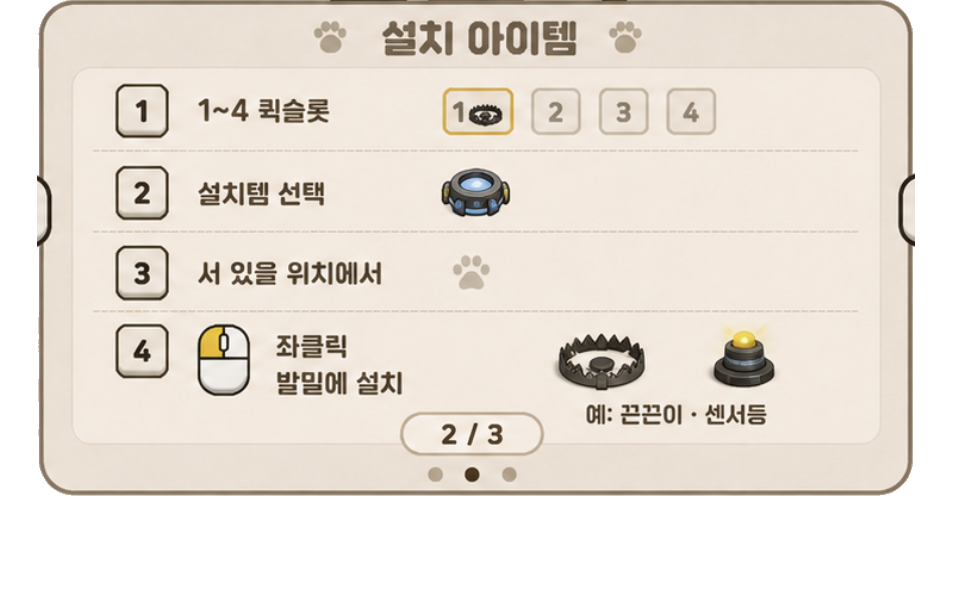
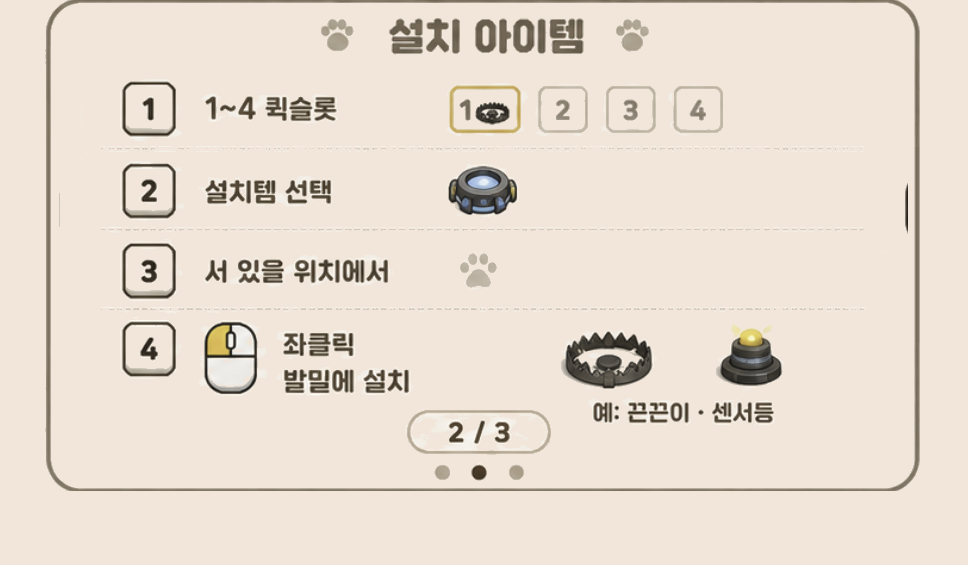
chore: 게임방법 페이지 원본 교체와 규격 통일
로고가 물리지 않은 크롭으로 page2·page3을 바꿨다. 로고가 들어간 원본은
original-crops/에 남긴다 — 왜 다시 잘랐는지가 파일 하나로 남는다.

정규화 방식을 바꿨다. 배경을 투명으로 빼던 것을 그만두고 로비 배경색으로
정확히 칠한다. 이 패널은 안쪽 채움이 바깥 배경과 10~15밖에 차이가 나지 않아,
가장자리에서 시작한 채우기가 패널 안쪽까지 먹어 들어갔다 — 한 페이지가 734조각
으로 부서졌다.

화살표는 가장자리에서부터 찾지 않는다. 이미지 끝에 닿아 있지 않은 페이지가
있어서 "가장자리가 배경이면 화살표가 없다"가 거짓이 된다. 화살표가 없는
높이(0.25·0.75)에서 패널 바깥선을 재고 거기서 자른다.

테두리 위에 얹힌 화살표의 둥근 끝은 칠해 없애지 않고, 화살표가 없는 높이의
좌우 끝 띠를 세로로 복사해 덮는다. 테두리가 단색이 아니라 안쪽으로 밝아지는
그러데이션이라, 한 색으로 덮으면 그 자리만 납작해져 오히려 눈에 띈다.

결과: 세 장 모두 968x565 한 캔버스, 배경 F2E5DA 통일.

diff --git a/tools/normalize_howto_pages.py b/tools/normalize_howto_pages.py
@@ -1,24 +1,25 @@
 """로비 게임방법 페이지를 한 규격으로 맞춘다.
 
-작업자가 준 크롭은 세 장의 기준이 서로 다르다. 크기도(984x478 / 1018x518 /
-1000x622) 가로세로비도 다르고, 가장자리에는 화살표 버튼의 잘린 조각이, 위쪽에는
-로고의 아랫부분이 물려 있다.
+작업자가 준 크롭은 세 장의 기준이 서로 다르다. 크기도 가로세로비도 다르고,
+좌우 가장자리에는 화살표 버튼의 잘린 조각이 들어 있으며, 배경이 불투명한데 그
+색이 장마다 조금씩 다르고 로비 배경과도 어긋난다.
 
-그대로 쓰면 두 가지가 깨진다.
+그대로 쓰면 세 가지가 깨진다.
 
 1. `preserveAspect`는 rect 안에서 가운데 정렬한다. 비율이 다른 세 장을 한 rect에
-   넣으면 좁은 쪽이 축소돼, 페이지를 넘길 때마다 패널 크기가 달라진다.
-2. 배경이 불투명하고 로비 배경색과 미세하게 다르다(234,223,212 대 242,229,218).
-   얹으면 네모난 색 경계가 보인다.
+   넣으면 좁은 쪽이 축소돼, 넘길 때마다 패널 크기가 달라진다.
+2. 배경색이 로비(242,229,218)와 달라서, 얹으면 네모난 색 경계가 보인다.
+3. 화살표 조각은 진짜 버튼 옆에 잘린 그림으로 남는다.
 
-그래서 배경을 투명으로 빼고, 패널 상자만 남기고, 한 캔버스에 위쪽 기준으로 맞춘다.
+**배경을 투명으로 빼지 않는다.** 처음에는 그렇게 했는데, 이 패널은 안쪽 채움이
+바깥 배경과 10~15밖에 차이가 나지 않아서 가장자리에서 시작한 채우기가 패널
+안쪽까지 먹어 들어간다. 한 페이지는 734조각으로 부서졌다. 대신 배경으로 보이는
+색을 **로비 배경색으로 정확히 칠한다.** 로비 위에 얹히면 경계가 사라지고, 패널
+안쪽이 함께 칠해지더라도 원래 거의 같은 색이라 눈에 띄지 않는다.
 
-배경 제거는 **가장자리에서 시작하는 채우기**로 한다. 밝기 한 값으로 자르면 패널
-안쪽의 크림색 채움(244,235,223)이 배경(234,223,212)과 10 남짓밖에 차이가 나지
-않아 같이 지워진다. 바깥에서 이어진 영역만 지우면 안쪽은 색이 같아도 남는다.
-
-화살표 조각과 로고 물림은 패널과 **떨어져 있는 별개 덩어리**다. 가장 큰 덩어리만
-남기면 따로 좌표를 재지 않고 사라진다.
+자르는 것은 좌우 화살표뿐이고, 그것도 좌표를 눈으로 찍지 않고 **잰다** — 세로
+가운데 높이에서 가장자리부터 훑어, 화살표 덩어리가 끝나고 배경이 시작되는
+지점이 패널의 바깥선이다.
 
 사용:
     python Tools/normalize_howto_pages.py
@@ -27,7 +28,6 @@
 from __future__ import annotations
 
 import sys
-from collections import deque
 from pathlib import Path
 
 import numpy as np
@@ -37,149 +37,111 @@ ROOT = Path(__file__).resolve().parent.parent
 SOURCE = ROOT / "ArtSource" / "Lobby" / "HowTo"
 OUTPUT = SOURCE / "normalized"
 
-# 배경으로 볼 색과 허용 오차. 띠로 잡는 이유는 PNG 압축과 안티에일리어싱이
-# 평평한 배경에도 몇 단계의 흔들림을 남기기 때문이다.
-BACKGROUND = np.array([234, 223, 212])
-TOLERANCE = 14
+# 로비의 배경색. `LobbyCanvasBuilder.Backdrop`(F2E5DA)와 같은 값이어야 한다.
+LOBBY_BACKDROP = np.array([242, 229, 218], dtype=np.uint8)
 
-# 패널 상자 둘레에 남기는 여백. 둥근 모서리의 안티에일리어싱이 잘리지 않게 한다.
-MARGIN = 2
+# 배경으로 볼 허용 오차. PNG 압축과 안티에일리어싱이 평평한 면에도 몇 단계의
+# 흔들림을 남긴다.
+TOLERANCE = 16
 
+# 패널 바깥선을 재는 높이들. 화살표(세로 가운데)와 둥근 모서리(위아래 끝)를
+# 동시에 피한다.
+PANEL_ROWS = (0.25, 0.35, 0.65, 0.75)
 
-def flood_background(rgb: np.ndarray) -> np.ndarray:
-    """가장자리에서 이어진 배경 픽셀을 True로 돌려준다."""
-    height, width = rgb.shape[:2]
-    near = (np.abs(rgb.astype(int) - BACKGROUND) <= TOLERANCE).all(axis=2)
-
-    seen = np.zeros((height, width), dtype=bool)
-    queue: deque[tuple[int, int]] = deque()
-
-    for x in range(width):
-        for y in (0, height - 1):
-            if near[y, x] and not seen[y, x]:
-                seen[y, x] = True
-                queue.append((y, x))
-    for y in range(height):
-        for x in (0, width - 1):
-            if near[y, x] and not seen[y, x]:
-                seen[y, x] = True
-                queue.append((y, x))
-
-    while queue:
-        y, x = queue.popleft()
-        for dy, dx in ((1, 0), (-1, 0), (0, 1), (0, -1)):
-            ny, nx = y + dy, x + dx
-            if 0 <= ny < height and 0 <= nx < width:
-                if near[ny, nx] and not seen[ny, nx]:
-                    seen[ny, nx] = True
-                    queue.append((ny, nx))
-
-    return seen
+# 잰 바깥선에 남기는 여백. 테두리의 안티에일리어싱이 잘리지 않게 한다.
+EDGE_MARGIN = 2
 
 
-def largest_component(mask: np.ndarray) -> np.ndarray:
-    """남은 불투명 픽셀 중 가장 큰 연결 덩어리만 돌려준다."""
-    height, width = mask.shape
-    label = np.zeros((height, width), dtype=np.int32)
-    best_id, best_size = 0, 0
-    current = 0
+def sample_background(rgb: np.ndarray) -> np.ndarray:
+    """네 모서리에서 배경색을 고른다.
 
-    for sy in range(height):
-        for sx in range(width):
-            if not mask[sy, sx] or label[sy, sx]:
-                continue
-            current += 1
-            size = 0
-            queue = deque([(sy, sx)])
-            label[sy, sx] = current
-            while queue:
-                y, x = queue.popleft()
-                size += 1
-                for dy, dx in ((1, 0), (-1, 0), (0, 1), (0, -1)):
-                    ny, nx = y + dy, x + dx
-                    if 0 <= ny < height and 0 <= nx < width:
-                        if mask[ny, nx] and not label[ny, nx]:
-                            label[ny, nx] = current
-                            queue.append((ny, nx))
-            if size > best_size:
-                best_id, best_size = current, size
-
-    return label == best_id
-
-
-def panel_bounds(opaque: np.ndarray) -> tuple[int, int, int, int]:
-    """패널 상자의 경계. 조각이 없는 주사선에서만 잰다.
-
-    가장 큰 덩어리로는 안 된다. 화살표 조각은 패널 테두리에 닿아 있고 로고
-    물림도 안티에일리어싱으로 이어져 있어서, 셋이 한 덩어리로 잡힌다.
-
-    대신 방해물이 **어디에 있는지**를 쓴다. 화살표는 좌우 가장자리의 세로
-    가운데에 있고 로고는 위쪽 가로 가운데에 있다. 그래서 좌우 경계는 위아래
-    끝 근처의 가로줄에서, 상하 경계는 좌우 끝 근처의 세로줄에서 재면 서로를
-    피한다.
+    밝은 모서리만 센다 — 화살표 조각이 모서리에 걸친 페이지가 있어서, 그 어두운
+    값을 배경으로 삼으면 아무것도 걸러지지 않는다.
     """
-    height, width = opaque.shape
+    height, width = rgb.shape[:2]
+    corners = [
+        rgb[1, 1],
+        rgb[1, width - 2],
+        rgb[height - 2, 1],
+        rgb[height - 2, width - 2],
+    ]
+    light = [c for c in corners if c.mean() > 200]
+    return np.median(np.array(light if light else corners), axis=0)
 
-    def span(line: np.ndarray) -> tuple[int, int] | None:
-        hit = np.where(line)[0]
-        return (int(hit.min()), int(hit.max())) if hit.size else None
 
-    # 좌우: 화살표가 닿지 않는 높이의 가로줄들.
+def panel_edges(is_background: np.ndarray) -> tuple[int, int]:
+    """패널의 왼쪽·오른쪽 바깥선.
+
+    화살표가 **없는 높이**에서 잰다. 화살표는 세로 가운데(대략 0.35~0.65)에
+    있고 둥근 모서리는 위아래 끝에 있으므로, 0.25와 0.75는 둘 다 피한다.
+
+    가장자리에서부터 화살표를 찾는 방식은 쓸 수 없다. 화살표가 이미지 끝에
+    닿아 있지 않은 페이지가 있어서 — 오른쪽에 배경이 몇 픽셀 남아 있다 —
+    "가장자리가 배경이면 화살표가 없다"가 거짓이 된다.
+    """
+    height, width = is_background.shape
     lefts, rights = [], []
-    for fraction in (0.10, 0.14, 0.86, 0.90):
-        found = span(opaque[int(height * fraction)])
-        if found:
-            lefts.append(found[0])
-            rights.append(found[1])
 
-    # 상하: 로고가 닿지 않는 가로 위치의 세로줄들.
-    tops, bottoms = [], []
-    for fraction in (0.10, 0.16, 0.84, 0.90):
-        found = span(opaque[:, int(width * fraction)])
-        if found:
-            tops.append(found[0])
-            bottoms.append(found[1])
+    for fraction in PANEL_ROWS:
+        row = is_background[int(height * fraction)]
+        content = np.where(~row)[0]
+        if content.size:
+            lefts.append(int(content.min()))
+            rights.append(int(content.max()))
 
-    # 중앙값 대신 가장 안쪽 값. 한 줄이라도 조각을 스치면 바깥으로 벌어지는데,
-    # 벌어진 쪽을 채택하면 잘라내려던 것이 그대로 남는다.
-    return (
-        max(lefts) if lefts else 0,
-        min(rights) if rights else width - 1,
-        max(tops) if tops else 0,
-        min(bottoms) if bottoms else height - 1,
-    )
+    if not lefts:
+        return 0, width
+
+    # 가장 바깥. 한 줄이라도 모서리 곡선에 걸리면 안쪽 값이 나오는데, 그것을
+    # 고르면 패널을 잘라 먹는다.
+    left = max(0, min(lefts) - EDGE_MARGIN)
+    right = min(width, max(rights) + 1 + EDGE_MARGIN)
+    return left, right
 
 
-def extract(path: Path) -> Image.Image:
-    image = Image.open(path).convert("RGBA")
-    rgb = np.array(image)[..., :3]
+def repair_arrow_notches(page: np.ndarray) -> None:
+    """화살표가 패널 테두리 안쪽으로 밀고 들어온 자국을 지운다.
 
-    background = flood_background(rgb)
-    opaque = ~background
+    바깥선까지 잘라내도 화살표의 둥근 끝이 테두리 위에 조금 얹혀 있어서 작은
+    홈처럼 남는다. 그 구간의 테두리는 곧은 세로선이므로, 화살표가 없는 높이의
+    좌우 끝 띠를 그 구간에 그대로 세로로 복사하면 원래 선이 복원된다.
 
-    left_edge, right_edge, top_edge, bottom_edge = panel_bounds(opaque)
+    칠해 없애지 않고 복사하는 이유는, 테두리가 단색이 아니라 안쪽으로 갈수록
+    밝아지는 몇 픽셀짜리 그러데이션이기 때문이다. 한 색으로 덮으면 그 자리만
+    납작해져서 오히려 눈에 띈다.
+    """
+    height, width = page.shape[:2]
+    band_top = int(height * 0.30)
+    band_bottom = int(height * 0.70)
 
-    top = max(0, top_edge - MARGIN)
-    bottom = min(image.height, bottom_edge + 1 + MARGIN)
-    left = max(0, left_edge - MARGIN)
-    right = min(image.width, right_edge + 1 + MARGIN)
+    clean_row = page[int(height * 0.22)]
+    strip = int(min(48, width * 0.06))
 
-    # 잘라낸 창 바깥은 물론이고, 창 안에서도 배경이었던 곳은 투명하게 둔다.
-    panel = np.zeros_like(opaque)
-    panel[top:bottom, left:right] = opaque[top:bottom, left:right]
+    for y in range(band_top, band_bottom):
+        page[y, :strip] = clean_row[:strip]
+        page[y, width - strip:] = clean_row[width - strip:]
+
+
+def normalize(path: Path) -> Image.Image:
+    image = Image.open(path).convert("RGB")
+    rgb = np.array(image).astype(int)
+
+    background = sample_background(rgb)
+    is_background = (np.abs(rgb - background) <= TOLERANCE).all(axis=2)
+
+    left, right = panel_edges(is_background)
 
     out = np.array(image)
-    # 패널 덩어리 밖은 전부 투명. 가장자리 조각과 로고 물림이 여기서 떨어진다.
-    out[..., 3] = np.where(panel, 255, 0)
-    cropped = Image.fromarray(out[top:bottom, left:right], "RGBA")
+    out[is_background] = LOBBY_BACKDROP
+    cropped = out[:, left:right]
+    repair_arrow_notches(cropped)
 
     print(
         f"  {path.name}: {image.width}x{image.height}"
-        f" -> 패널 {cropped.width}x{cropped.height}"
-        f" (버린 여백 상 {top}, 하 {image.height - bottom},"
-        f" 좌 {left}, 우 {image.width - right})"
+        f" -> {cropped.shape[1]}x{cropped.shape[0]}"
+        f" (잘라낸 화살표 좌 {left}px, 우 {image.width - right}px)"
     )
-    return cropped
+    return Image.fromarray(cropped, "RGB")
 
 
 def main() -> int:
@@ -188,24 +150,23 @@ def main() -> int:
         print(f"'{SOURCE}'에 page*.png가 없다.", file=sys.stderr)
         return 1
 
-    print(f"{len(sources)}장에서 패널을 뽑는다.")
-    panels = [extract(path) for path in sources]
+    print(f"{len(sources)}장을 맞춘다.")
+    pages = [normalize(path) for path in sources]
 
-    # 한 캔버스. 넓이는 가장 넓은 것, 높이는 가장 높은 것.
-    width = max(panel.width for panel in panels)
-    height = max(panel.height for panel in panels)
+    width = max(page.width for page in pages)
+    height = max(page.height for page in pages)
     print(f"공통 캔버스 {width}x{height}")
 
     OUTPUT.mkdir(parents=True, exist_ok=True)
-    for index, panel in enumerate(panels, start=1):
-        canvas = Image.new("RGBA", (width, height), (0, 0, 0, 0))
+    for index, page in enumerate(pages, start=1):
+        canvas = Image.new("RGB", (width, height), tuple(int(c) for c in LOBBY_BACKDROP))
         # 가로는 가운데, 세로는 **위쪽 기준**. 제목이 페이지마다 같은 높이에
-        # 오게 하려는 것이고, 가운데 정렬하면 내용이 짧은 페이지에서 제목이
+        # 오게 하려는 것이고, 가운데로 맞추면 내용이 짧은 페이지에서 제목이
         # 내려앉아 넘길 때마다 흔들린다.
-        canvas.paste(panel, ((width - panel.width) // 2, 0), panel)
+        canvas.paste(page, ((width - page.width) // 2, 0))
         target = OUTPUT / f"page{index}.png"
         canvas.save(target)
-        print(f"  -> {target.relative_to(ROOT)}")
+        print(f"  -> {target.relative_to(ROOT)}  {canvas.width}x{canvas.height}")
 
     return 0
 
